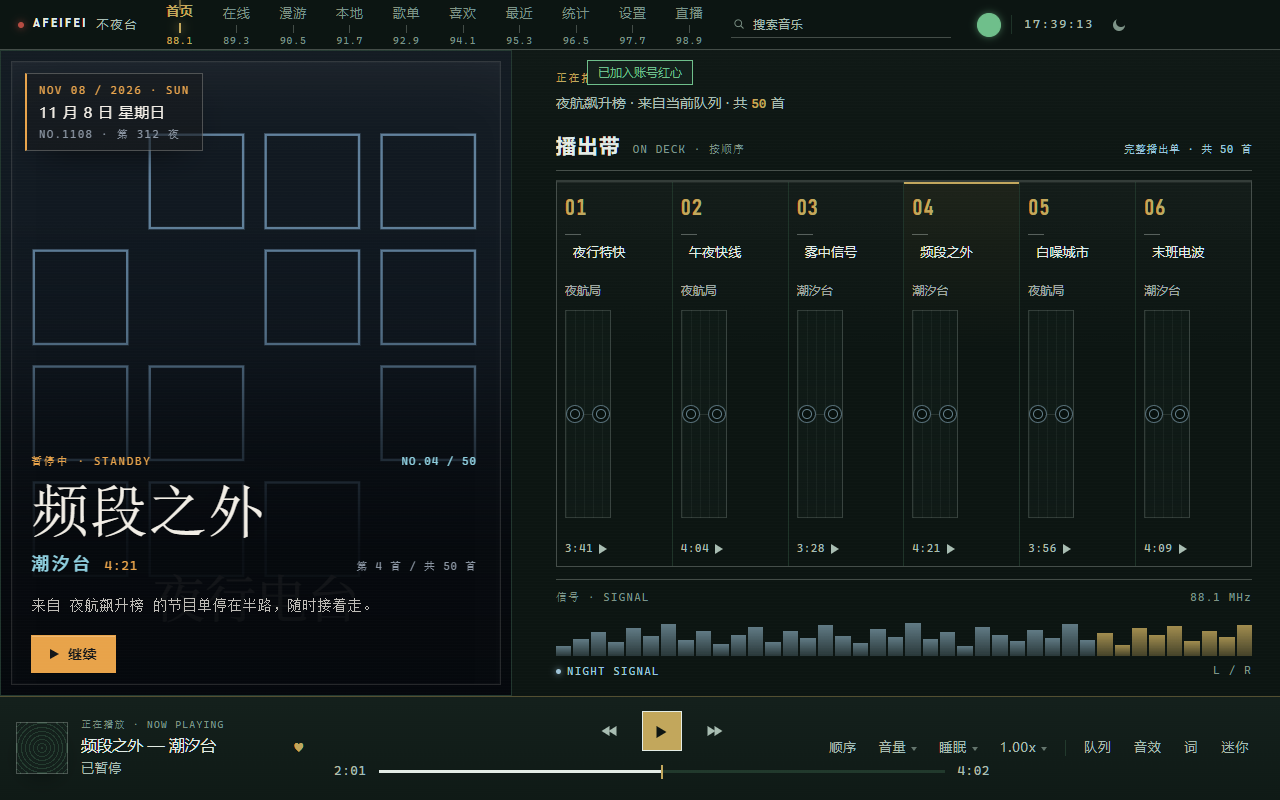
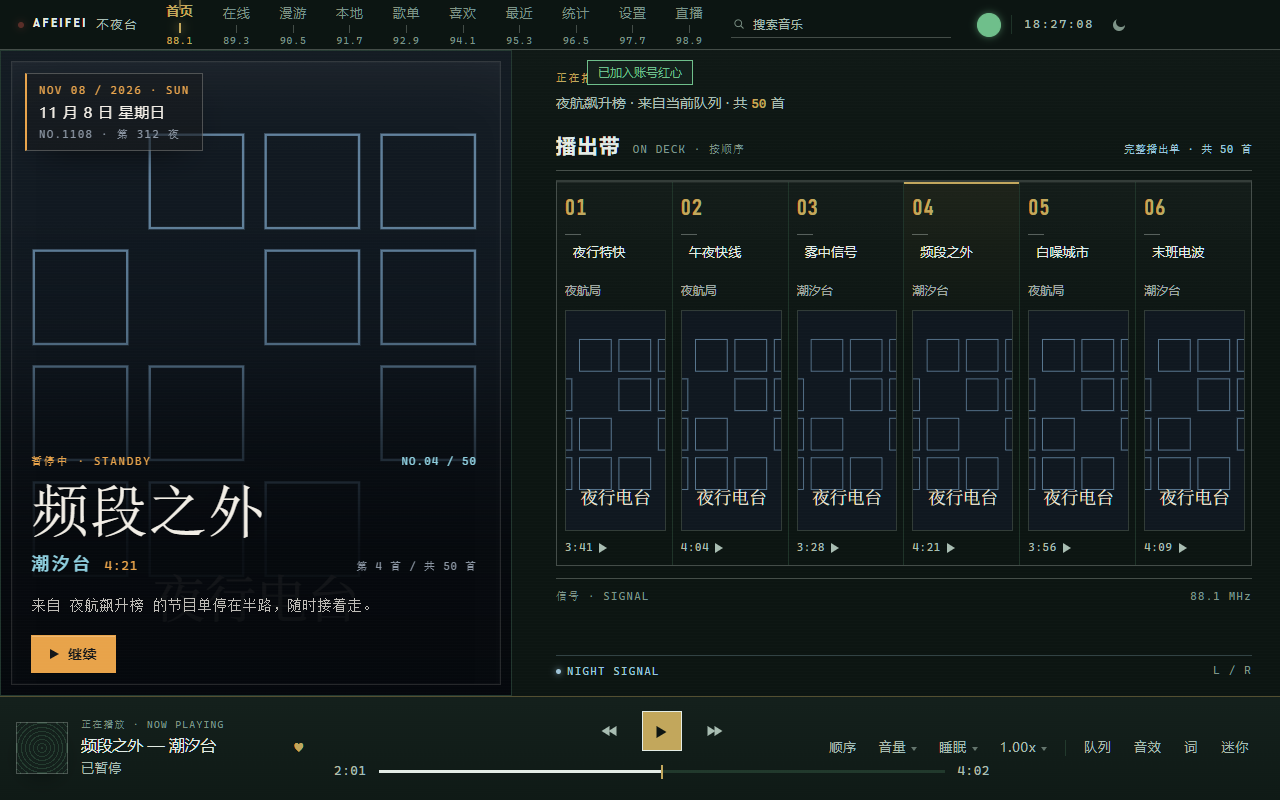
ui: 首页假仪器换真——引擎真频谱 + 播出带真专辑封面

Changed region(s): [[0.4375, 0.4375, 0.9688, 0.75], [0.4375, 0.7812, 1.0, 0.8438], [0.4375, 0.6562, 0.5, 0.75]]

diff --git a/src/renderer/ui/live/LiveHome.tsx b/src/renderer/ui/live/LiveHome.tsx
@@ -1,4 +1,4 @@
-import { useState } from "react";
+import { useEffect, useRef, useState } from "react";
 import type { RemoteTrack } from "../../../contracts/capability.js";
 import { fmtDuration } from "../views/library/rows.js";
 import { useAccountBundle, type AccountBundle } from "../account-data.js";
@@ -6,6 +6,7 @@ import { RefreshButton } from "../RefreshButton.js";
 import { NightCoverArt } from "./NightCoverArt.js";
 import { issueOf, nightOfYear } from "./night.js";
 import { splitLatinRuns } from "./typography.js";
+import { onTick } from "../compositor.js";
 import { onAirProgram, type OnAirProgram } from "./on-air.js";
 
 export { onAirProgram };
@@ -27,10 +28,8 @@ const pad2 = (n: number): string => String(n).padStart(2, "0");
 /** 仅本次运行第一次进入首页时放一次入场；切页回来不重播。 */
 let homeVisited = false;
 
-const VU = [
-  22, 38, 54, 31, 63, 45, 72, 36, 58, 27, 49, 66, 33, 57, 41, 70, 46, 29, 61, 44,
-  76, 39, 55, 24, 67, 48, 34, 59, 42, 73, 37, 52, 26, 64, 47, 69, 35, 56, 43, 71,
-];
+/** 信号条柱数：与控制台/舞台同源（engine.spectrum 聚合桶），写死就是假仪器。 */
+const VU_BARS = 40;
 
 function MixedTitle({ text }: { text: string }) {
   return (
@@ -53,6 +52,7 @@ export function LiveHome({
   playing,
   onToggle,
   onAir,
+  spectrum,
 }: {
   account(): Promise<AccountBundle>;
   accountName: string;
@@ -66,9 +66,26 @@ export function LiveHome({
   onToggle(): void;
   /** 全局正在播的远程节目（onAirProgram 投影）。null = 没在播远程歌 */
   onAir: OnAirProgram | null;
+  /** 真实频谱采样（engine.spectrum）。null = 音频图未建，信号条贴底待机。 */
+  spectrum(bins: number): number[] | null;
 }) {
   const state = useAccountBundle(account, "daily");
   const [showAll, setShowAll] = useState(false);
+  const [failedCovers, setFailedCovers] = useState<ReadonlySet<string>>(new Set());
+  const vuRefs = useRef<Array<HTMLSpanElement | null>>([]);
+
+  /*
+   * 信号条：每帧从引擎取真频谱写 scaleY（composite-only，不走 React 渲染）。
+   * 没在播时 analyser 数据衰减为 0，条子自然贴底——空态就是仪器的待机态，不造假波形。
+   */
+  useEffect(() => onTick(() => {
+    const values = spectrum(VU_BARS);
+    for (let i = 0; i < vuRefs.current.length; i++) {
+      const el = vuRefs.current[i];
+      if (el) el.style.transform = `scaleY(${(values?.[i] ?? 0.02).toFixed(3)})`;
+    }
+  }), [spectrum]);
+
   const today = new Date();
   const month = today.getMonth() + 1;
   const day = today.getDate();
@@ -269,11 +286,21 @@ export function LiveHome({
                     <span className="cs-tape-rule" aria-hidden="true" />
                     <span className="cs-tape-title daily-title">{track.title}</span>
                     <span className="cs-tape-artist">{track.artist}</span>
-                    <span className="cs-tape-window" aria-hidden="true">
-                      <i />
-                      <i />
-                    </span>
-                    <span className="cs-tape-meter" aria-hidden="true" />
+                    {/* 专辑封面：img 直接当格子中段（flex item 自身弹性，无嵌套拉伸）。
+                        无封面或加载失败换小黑胶垫底，按 coverUrl 记失败。 */}
+                    {track.coverUrl && !failedCovers.has(track.coverUrl) ? (
+                      <img
+                        className="cs-tape-art"
+                        src={track.coverUrl}
+                        alt=""
+                        loading="lazy"
+                        decoding="async"
+                        referrerPolicy="no-referrer"
+                        onError={() => setFailedCovers((s) => new Set(s).add(track.coverUrl as string))}
+                      />
+                    ) : (
+                      <span className="cs-tape-art cs-tape-vinyl" aria-hidden="true" />
+                    )}
                     <span className="cs-tape-foot">
                       <span className="cs-tape-dur">{fmtDuration(track.durationMs)}</span>
                       <i className="cs-tape-play" aria-hidden="true" />
@@ -290,8 +317,13 @@ export function LiveHome({
                 <span>88.1 MHz</span>
               </div>
               <div className="cs-vu">
-                {VU.map((h, i) => (
-                  <i key={i} style={{ height: `${h}%` }} />
+                {Array.from({ length: VU_BARS }, (_, i) => (
+                  <i
+                    key={i}
+                    ref={(el) => {
+                      vuRefs.current[i] = el;
+                    }}
+                  />
                 ))}
               </div>
               <div className="cs-sig-foot">

diff --git a/src/renderer/ui/live/cover-stage.css b/src/renderer/ui/live/cover-stage.css
@@ -487,62 +487,36 @@
   text-overflow: ellipsis;
 }
 
-.cs-tape-window {
+/* 格子中段 = 专辑封面：img 直接做 flex item（自身弹性，object-fit 裁切），
+   无封面或加载失败换 .cs-tape-vinyl 垫底（显式元素，不靠叠层渐变）。 */
+.cs-tape-art {
   flex: 1;
-  min-height: 36px;
+  min-height: 44px;
   margin: 10px 0 8px;
-  display: flex;
-  align-items: center;
-  justify-content: center;
-  gap: 8px;
-  position: relative;
   border: 1px solid color-mix(in srgb, var(--live-fg) 16%, transparent);
-  /* 凹槽用 panel-2（比 panel 深一档）：日间是浅灰槽、夜间是深黑槽，两档都是「比卡片更深」。
-     原来写死 --live-ink 66%，日间会变成一块中灰 —— 控制室换灯后这里就露馅了。 */
+  background: linear-gradient(180deg, var(--live-panel-2), color-mix(in srgb, var(--live-panel) 42%, transparent));
+  overflow: hidden;
+}
+
+img.cs-tape-art {
+  display: block;
+  /* 宽度显式 100%：img 的 intrinsic 尺寸 + 自动 aspect-ratio 会把交叉轴顶成 320px，
+     不钉住就溢出格子右缘被裁掉一半 */
+  width: 100%;
+  min-height: 0;
+  object-fit: cover;
+}
+
+/* 垫底黑胶：closest-side 定半径，色标全用百分比，四主题 token 上色 */
+.cs-tape-vinyl {
+  border-radius: 50%;
+  margin: 14px 22px;
   background:
-    repeating-linear-gradient(90deg, color-mix(in srgb, var(--live-fg) 4.5%, transparent) 0 1px, transparent 1px 9px),
-    linear-gradient(180deg, var(--live-panel-2), color-mix(in srgb, var(--live-panel) 42%, transparent));
-}
-
-.cs-tape-window::before {
-  content: "";
-  position: absolute;
-  left: 7px;
-  right: 7px;
-  top: 50%;
-  height: 1px;
-  background: color-mix(in srgb, var(--live-fg) 12%, transparent);
-}
-
-.cs-tape-window i {
-  position: relative;
-  z-index: 1;
-  width: 16px;
-  height: 16px;
-  border-radius: 50%;
-  border: 1px solid color-mix(in srgb, var(--live-signal) 50%, transparent);
-  /* 轴孔：凹槽再深一档。原来写 --live-ink 80%，浅底上是对的（深墨），
-     深绿底上就跟槽同色了 —— 四档统一用 --live-slot。 */
-  background: var(--live-slot);
-}
-
-.cs-tape-window i::after {
-  content: "";
-  position: absolute;
-  inset: 3px;
-  border-radius: 50%;
-  border: 1px solid color-mix(in srgb, var(--live-signal) 62%, transparent);
-}
-
-.cs-tape-meter {
-  height: 7px;
-  margin: 0 0 7px;
-  background: repeating-linear-gradient(
-    90deg,
-    color-mix(in srgb, var(--live-signal) 32%, transparent) 0 2px,
-    transparent 2px 5px
-  );
-  opacity: 0.55;
+    radial-gradient(circle closest-side, var(--live-slot) 0 6%, transparent 7%),
+    radial-gradient(circle closest-side, var(--live-amber) 0 26%, transparent 27%),
+    radial-gradient(circle closest-side, color-mix(in srgb, var(--live-fg) 8%, var(--live-ink)) 0, var(--live-ink) 80%),
+    repeating-radial-gradient(circle, transparent 0 3px, color-mix(in srgb, var(--live-fg) 6%, transparent) 3px 4px);
+  box-shadow: inset 0 0 0 1px color-mix(in srgb, var(--live-fg) 22%, transparent);
 }
 
 .cs-tape-foot {
@@ -606,10 +580,16 @@
   gap: 2px;
   height: 44px;
   margin: 6px 0 6px;
+  /* 静默基线：没在播时柱子贴底，这条线说明"仪器在，只是没信号" */
+  border-bottom: 1px solid color-mix(in srgb, var(--live-signal) 26%, transparent);
 }
 
+/* 柱高由 onTick 每帧写 transform（composite-only）；height 满格、scaleY 控视觉 */
 .cs-vu i {
   flex: 1;
+  height: 100%;
+  transform-origin: bottom;
+  transform: scaleY(0.02);
   background: linear-gradient(
     180deg,
     color-mix(in srgb, var(--live-signal) 88%, transparent),
@@ -845,13 +825,9 @@
     height: 32px;
   }
 
-  .cs-tape-window {
+  .cs-tape-art {
     min-height: 24px;
     margin: 7px 0 6px;
-  }
-
-  .cs-tape-meter {
-    display: none;
   }
 
   .cs-signal {
@@ -888,7 +864,7 @@
   padding: 0;
   list-style: none;
   border: 1px solid var(--live-line-strong);
-  /* 同 .cs-tape-window：凹槽跟 panel-2，别用 ink（日间会糊成一块中灰） */
+  /* 凹槽底跟 .cs-tape-art：panel-2，别用 ink（日间会糊成一块中灰） */
   background: var(--live-panel-2);
   scrollbar-width: thin;
 }

diff --git a/src/renderer/ui/index.tsx b/src/renderer/ui/index.tsx
@@ -747,6 +747,7 @@ function App() {
           }}
           nowPlaying={state.player.remote ?? null}
           playing={playing}
+          spectrum={(bins) => services.current?.spectrum(bins) ?? null}
           onToggle={() => dispatch({ type: "player/toggle" })}
           onAir={onAirProgram(state.player.trackId, state.queue, (id) => sources.find((s) => s.id === id)?.name ?? id)}
         />

diff --git a/docs/03-改动日志.md b/docs/03-改动日志.md
@@ -4,6 +4,31 @@
 
 ---
 
+## 2026-11-08 · 首页把"假仪器"换真：真频谱 + 播出带真封面
+
+- **commit**：（见 git log）
+- **动机**：用户发首页截图说"都是 html 画出来的，很丑，能用其他方法重新设计吗"。审计结论：丑的根因不是 HTML vs 其他技术，是三处**死装饰**——①信号条是 40 个写死数字的假频谱（播不播都同一形状）；②播出带格子中段是纯装饰卡带空槽，而 `track.coverUrl` 就在元数据里没被用；③meter 斜纹纯装饰。
+- **改了**：
+  - `LiveHome.tsx`：删 `VU` 死数组，加 `spectrum` prop（services 同源），onTick 每帧 40 柱写 `scaleY`（composite-only，不进 React 渲染）；播出带格子中段 `cs-tape-window/meter` 换成 **img 直接做 flex item** 的真封面，失败态 React Set 记账切黑胶垫底。
+  - `index.tsx`：LiveHome 传 `spectrum`（与舞台页同一管线，I3 不破）。
+  - `cover-stage.css`：`.cs-tape-art`（封面槽）+ `.cs-tape-vinyl`（closest-side 黑胶垫底，全 token）；`.cs-vu i` 改 scaleY + 静默基线。
+  - `live-shots.mjs`：加 3 条可红判据（真封面绘制宽>0 / 垫底不误判 / 在播时频谱 max>0.05）。
+- **验证**：tsc 0；lint 无违规（207 文件）；677 单测；SMOKE PASS；PERF PASS（p95 7.3ms 优于基线）；live-shots 判据全绿（封面 6/6 绘制、vinyl 0 误判、频谱 max 0.82）。
+- **关键决策**：
+  - **不换渲染技术**（Canvas/WebGL 都不需要）——CSS transform 足以做真频谱；引擎 `engine.spectrum(bins)` + 聚合管线早就存在，舞台页已接，首页只差接线。
+  - **img 直接当格子中段**（flex item 自身弹性），不做嵌套 span + absolute img——嵌套版在 Chromium 里因 img 的 intrinsic 尺寸 + 自动 aspect-ratio 把宽度顶成 320px 溢出格子，显式 `width:100%` 钉住。
+  - 频谱空态 = 全 0 贴底 + 1px 信号基线（"仪器在，只是没信号"），不造假波形（与 `aggregateSpectrum` 的契约一致）。
+- **坑**：
+  1. **嵌套 absolute img + `width:100%` 的组合**：img 有 intrinsic 尺寸时 Chromium 自动 aspect-ratio 会从 flex 分配的高度反推宽度，交叉轴 stretch 失效 → img 宽 320 溢出格子。探针量 `getBoundingClientRect` 才抓到（computed transform 解析 scaleY 会出 NaN，几何量测才可靠）。
+  2. `loading="lazy"` 的 img `naturalWidth>0` 但视觉未绘制的窗口期存在——封面判据要量 rect 宽度而不是只看 naturalWidth。
+  3. 改 DOM 结构后探针选择器（`.cs-tape-art img`）立即过时——结构变了先 grep 探针。
+- **遗留**：
+  1. fixture 六格同一张专辑封面（测试数据同专辑）——真实账号环境每格不同封面，视觉更丰富。
+  2. 频谱 40 桶线性分布，高频段（琥珀区）在真实音乐里常贴底——真实形状，若想更好看需要引擎侧改对数分桶（动 I3 管线，不值得）。
+  3. hero 大字/眉标/橙色按钮未动——那部分本来成立。
+
+---
+
 ## 2026-11-08 · 播放器不合理处重设计：调音台分区 + 导播走带
 
 - **commit**：（见 git log）
